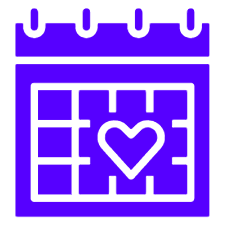
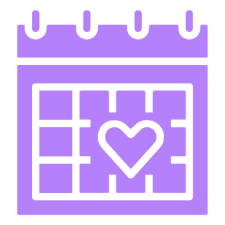
CAMBIANDO COLOR A LOS ICONOS Y AGREGANDO NUEVA FOTO

diff --git a/theme.css b/theme.css
@@ -1,37 +1,8 @@
 /*AQUI SE AGREGAN LAS FUENTES */
-@font-face {
-    font-family: pristina;
-    src: url(font/pristina.TTF);
-}
-
-@font-face {
-    font-family: lordDarkar;
-    src: url(font/LordDarkar.ttf);
-}
-
-@font-face {
-    font-family: loveya;
-    src: url(font/LoveYa.ttf);
-}
-
-@font-face {
-    font-family: DelaGothicOne;
-    src: url(font/DelaGothicOne.ttf);
-}
-
-@font-face {
-    font-family: ArvoRegular;
-    src: url(font/ArvoRegular.ttf);
-}
 
 @font-face {
     font-family: Olden;
     src: url(font/Oldenburg.ttf);
-}
-
-@font-face {
-    font-family: Yester;
-    src: url(font/Yesteryear.ttf);
 }
 
 html,
@@ -64,7 +35,7 @@ body {
 
 .registroConfirmacion {
     font-weight: 800;
-    color: #5600ff;
+    color: #b581fb;
     font-family: OldenOlden;
     font-size: 10vw;
     text-align: center;
@@ -77,7 +48,7 @@ body {
 .buttonUbicacion {
     width: 100%;
     height: 13vw;
-    background: #8547ff;
+    background: #b581fb;
     border: 1px;
     border-radius: 50px;
     color: #ffffff;
@@ -89,7 +60,7 @@ body {
 .buttonConfimacion {
     width: 100%;
     height: 13vw;
-    background: #8547ff;
+    background: #b581fb;
     border: 1px;
     border-radius: 50px;
     color: #ffffff;
@@ -107,7 +78,7 @@ body {
     display: flex;
     align-items: center;
     flex-direction: column;
-    box-shadow: 0px 0px 8px #5600ff;
+    box-shadow: 0px 0px 8px #7e1eff;
     border-radius: 10px;
     margin: 5% 5% 35% 5%;
     padding: 5%;
@@ -117,7 +88,7 @@ body {
     display: flex;
     align-items: center;
     flex-direction: column;
-    box-shadow: 0px 0px 8px #5600ff;
+    box-shadow: 0px 0px 8px #7e1eff;
     border-radius: 10px;
     margin: 5%;
     padding: 5%;
@@ -143,14 +114,14 @@ body {
     display: flex;
     align-items: center;
     flex-direction: column;
-    box-shadow: 0px 0px 8px #8547ff;
+    box-shadow: 0px 0px 8px #7e1eff;
     border-radius: 10px;
     margin: 5%;
     padding: 5%;
 }
 
 .regaloP {
-    color: #8547ff;
+    color: #b581fb;
     font-family: OldenOlden;
     font-size: 9vw;
     text-align: center;
@@ -163,7 +134,7 @@ body {
     color: #000000;
     font-family: OldenOlden;
     font-size: 5vw;
-    font-weight: 600;
+    font-weight: 400;
     text-align: center;
     display: flex;
     justify-content: center;
@@ -223,7 +194,7 @@ img {
     padding: 5% 5% 5% 5%;
     font-size: x-large;
     margin: 0;
-    color: #5600ff;
+    color: #b581fb;
 }
 
 .bendicion {
@@ -268,13 +239,12 @@ section {
 }
 
 .nombreBienvenida {
-    color: #ffffff;
+    color:#b581fb ;
     display: table-cell;
-    font-family: Yester;
+    font-family: node;
     font-size: 12vw;
     font-weight: bold;
     margin: 0;
-    background: #e1bbff;
     padding: 0vw 5vw;
 }
 

diff --git a/index.html b/index.html
@@ -16,7 +16,6 @@
   <meta property="og:image:type" content="image/png" />
   <meta property="og:url" content="hola" />
 
-
 </head>
 
 <body>
@@ -25,8 +24,9 @@
       <p class="bienvenida">
         NUESTRO DESTINO ESTABA ESCRITO Y POR FIN HA LLEGADO EL MOMENTO DE COMPARTIRLO CON USTEDES.
       </p>
+
       <p class="nombreBienvenida">
-        Ambiorix y Elilianny
+        A & E
       </p>
 
     </div>
@@ -124,7 +124,7 @@
 
       <img class="iconoRegalo" src="img/whatsapp.png">
       <p class="regaloP">Confirmacion</p>
-      <p class="textConfirmacion">Por favor confirmar tu asistencia ante del 13 de noviembre </p>
+      <p class="textConfirmacion">Por favor confirmar tu asistencia antes del 13 de noviembre </p>
       <a href="https://wa.me/18292705790?text=Muchas gracias por la invitacion!%20%20Confirmo mi asistencia%20Nombre:">
         <button class="buttonUbicacion">
           <p>CONFIRMAR ASISTENCIA</p>
@@ -143,14 +143,13 @@
 
       <img class="imgFotoFinal" src="img/foto1.JPG">
 
+      <img class="imgFotoFinal" src="img/foto3.PNG">
+
       <img class="imgFotoFinal" src="img/foto2.JPG">
 
     </div>
   </section>
 
-  <script src="https://code.jquery.com/jquery-3.6.0.min.js"></script>
-
-  <script src="js/main.js"></script>
 </body>
 
 </html>
